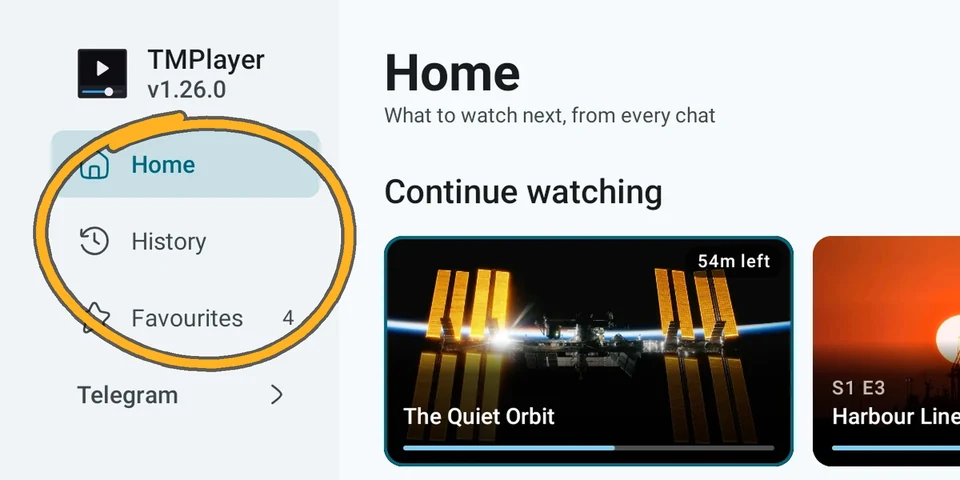
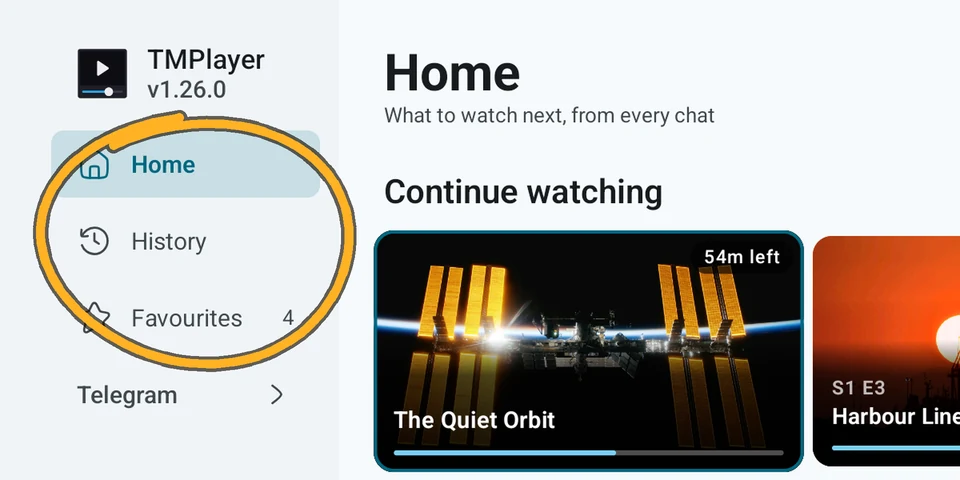
site: the TV home screen row retaken with a picture on every card, and the rail shot taken from the emulator

diff --git a/app/src/promo/java/com/tmplayer/PromoCaptureActivity.kt b/app/src/promo/java/com/tmplayer/PromoCaptureActivity.kt
@@ -876,14 +876,13 @@ private fun ComponentActivity.promoChannels() {
     val context = applicationContext
     val library = PromoMeta.library
     // The demo videos' pictures are this build's drawables, not Telegram thumbnails: each card's
-    // picture is written out from the video's own frame, found by its name. The course's lessons
-    // carry none in the library (the in-app tiles show the generated cover), but a real upload's
-    // thumbnail is what the launcher would get, so they wear the course's demo frame here.
+    // picture is written out from the video's own frame, found by its name. The videos the library
+    // keeps without a picture (the in-app tiles show the generated cover there) wear a demo frame
+    // that suits them, as a real upload's thumbnail would be what the launcher gets.
     val frames = java.io.File(context.cacheDir, "promo-channel-art").apply { mkdirs() }
     com.tmplayer.data.TvChannelsPublisher.fixtureArt = { art ->
         val item = library.all.firstOrNull { it.nameForParsing == art.name && it.caption == art.caption }
-        val bytes = item?.miniThumbnail
-            ?: item?.takeIf { it.chatId == PromoCatalog.STUDY }?.let { PromoMeta.pictures.bytes("demo_tutorial") }
+        val bytes = item?.miniThumbnail ?: item?.let { PromoMeta.pictures.bytes(promoChannelFrame(it)) }
         bytes?.let {
             java.io.File(frames, "${art.key.hashCode().toUInt()}.jpg").apply { if (!isFile) writeBytes(it) }
         }
@@ -919,6 +918,15 @@ private fun ComponentActivity.promoChannels() {
             }
         }
     }.start()
+}
+
+/** A demo frame for a video the library keeps without a picture, for its home screen card. */
+private fun promoChannelFrame(item: MediaItem): String = when {
+    item.chatId == PromoCatalog.STUDY -> "demo_tutorial"
+    "Kestrel" in item.fileName -> "demo_coast"
+    "Tiffin" in item.fileName -> "demo_kitchen"
+    "ladakh" in item.fileName -> "demo_forest"
+    else -> "demo_workshop"
 }
 
 /** `tv` or `tablet` answers the Fire OS question as that device would; anything else leaves it. */

diff --git a/site/ml/features/index.html b/site/ml/features/index.html
@@ -497,11 +497,11 @@
                launcher has no light theme, so one picture serves both. -->
           <div class="frame">
             <div class="screen">
-              <img src="/screenshots/tv-home-screen.webp" alt="നക്ഷത്രമിട്ട ചാറ്റുകളിൽ പുതുതായി ചേർത്ത ഡെമോ സിനിമകളും സീരീസുകളുമുള്ള TMPlayer നിരയോടുകൂടിയ Android TV ഹോം സ്ക്രീൻ, The Quiet Orbit തിരഞ്ഞെടുത്ത നിലയിൽ." width="1440" height="420" loading="lazy" decoding="async" data-i18n-alt="features.tv_home_screen_alt">
+              <img src="/screenshots/tv-home-screen.webp" alt="നക്ഷത്രമിട്ട ചാറ്റുകളിൽ പുതുതായി ചേർത്ത ഡെമോ സിനിമകളും സീരീസുകളുമുള്ള TMPlayer നിരയോടുകൂടിയ Android TV ഹോം സ്ക്രീൻ, Saltwater Lanterns തിരഞ്ഞെടുത്ത നിലയിൽ." width="1440" height="420" loading="lazy" decoding="async" data-i18n-alt="features.tv_home_screen_alt">
               <div class="tour-marks" aria-hidden="true">
                 <span style="--x: 27%; --y: 11.6%"></span>
-                <span style="--x: 22.5%; --y: 73.8%"></span>
-                <span style="--x: 91.6%; --y: 19.1%"></span>
+                <span style="--x: 24%; --y: 73.8%"></span>
+                <span style="--x: 82.4%; --y: 19.1%"></span>
               </div>
             </div>
           </div>

diff --git a/site/hi/features/index.html b/site/hi/features/index.html
@@ -497,11 +497,11 @@
                launcher has no light theme, so one picture serves both. -->
           <div class="frame">
             <div class="screen">
-              <img src="/screenshots/tv-home-screen.webp" alt="Android TV की होम स्क्रीन, जिसमें स्टार की हुई चैट में हाल में जुड़ी डेमो फ़िल्मों और शो की TMPlayer पंक्ति है, The Quiet Orbit चुना हुआ है।" width="1440" height="420" loading="lazy" decoding="async" data-i18n-alt="features.tv_home_screen_alt">
+              <img src="/screenshots/tv-home-screen.webp" alt="Android TV की होम स्क्रीन, जिसमें स्टार की हुई चैट में हाल में जुड़ी डेमो फ़िल्मों और शो की TMPlayer पंक्ति है, Saltwater Lanterns चुना हुआ है।" width="1440" height="420" loading="lazy" decoding="async" data-i18n-alt="features.tv_home_screen_alt">
               <div class="tour-marks" aria-hidden="true">
                 <span style="--x: 27%; --y: 11.6%"></span>
-                <span style="--x: 22.5%; --y: 73.8%"></span>
-                <span style="--x: 91.6%; --y: 19.1%"></span>
+                <span style="--x: 24%; --y: 73.8%"></span>
+                <span style="--x: 82.4%; --y: 19.1%"></span>
               </div>
             </div>
           </div>

diff --git a/site/bn/features/index.html b/site/bn/features/index.html
@@ -497,11 +497,11 @@
                launcher has no light theme, so one picture serves both. -->
           <div class="frame">
             <div class="screen">
-              <img src="/screenshots/tv-home-screen.webp" alt="Android TV-এর হোম স্ক্রিন, তারকা দেওয়া চ্যাটে সম্প্রতি যোগ হওয়া ডেমো সিনেমা ও সিরিজের TMPlayer সারি সহ, The Quiet Orbit বাছাই করা।" width="1440" height="420" loading="lazy" decoding="async" data-i18n-alt="features.tv_home_screen_alt">
+              <img src="/screenshots/tv-home-screen.webp" alt="Android TV-এর হোম স্ক্রিন, তারকা দেওয়া চ্যাটে সম্প্রতি যোগ হওয়া ডেমো সিনেমা ও সিরিজের TMPlayer সারি সহ, Saltwater Lanterns বাছাই করা।" width="1440" height="420" loading="lazy" decoding="async" data-i18n-alt="features.tv_home_screen_alt">
               <div class="tour-marks" aria-hidden="true">
                 <span style="--x: 27%; --y: 11.6%"></span>
-                <span style="--x: 22.5%; --y: 73.8%"></span>
-                <span style="--x: 91.6%; --y: 19.1%"></span>
+                <span style="--x: 24%; --y: 73.8%"></span>
+                <span style="--x: 82.4%; --y: 19.1%"></span>
               </div>
             </div>
           </div>

diff --git a/site/ar/features/index.html b/site/ar/features/index.html
@@ -497,11 +497,11 @@
                launcher has no light theme, so one picture serves both. -->
           <div class="frame">
             <div class="screen">
-              <img src="/screenshots/tv-home-screen.webp" alt="الشاشة الرئيسية في Android TV مع صف من TMPlayer لأفلام ومسلسلات تجريبية أُضيفت مؤخرًا إلى المحادثات المميزة بنجمة، والتحديد على The Quiet Orbit." width="1440" height="420" loading="lazy" decoding="async" data-i18n-alt="features.tv_home_screen_alt">
+              <img src="/screenshots/tv-home-screen.webp" alt="الشاشة الرئيسية في Android TV مع صف من TMPlayer لأفلام ومسلسلات تجريبية أُضيفت مؤخرًا إلى المحادثات المميزة بنجمة، والتحديد على Saltwater Lanterns." width="1440" height="420" loading="lazy" decoding="async" data-i18n-alt="features.tv_home_screen_alt">
               <div class="tour-marks" aria-hidden="true">
                 <span style="--x: 27%; --y: 11.6%"></span>
-                <span style="--x: 22.5%; --y: 73.8%"></span>
-                <span style="--x: 91.6%; --y: 19.1%"></span>
+                <span style="--x: 24%; --y: 73.8%"></span>
+                <span style="--x: 82.4%; --y: 19.1%"></span>
               </div>
             </div>
           </div>

diff --git a/site/fa/features/index.html b/site/fa/features/index.html
@@ -497,11 +497,11 @@
                launcher has no light theme, so one picture serves both. -->
           <div class="frame">
             <div class="screen">
-              <img src="/screenshots/tv-home-screen.webp" alt="صفحهٔ اصلی Android TV با ردیفی از TMPlayer شامل فیلمها و سریالهای نمایشی تازه اضافهشده به گفتگوهای ستارهدار، با انتخاب The Quiet Orbit." width="1440" height="420" loading="lazy" decoding="async" data-i18n-alt="features.tv_home_screen_alt">
+              <img src="/screenshots/tv-home-screen.webp" alt="صفحهٔ اصلی Android TV با ردیفی از TMPlayer شامل فیلمها و سریالهای نمایشی تازه اضافهشده به گفتگوهای ستارهدار، با انتخاب Saltwater Lanterns." width="1440" height="420" loading="lazy" decoding="async" data-i18n-alt="features.tv_home_screen_alt">
               <div class="tour-marks" aria-hidden="true">
                 <span style="--x: 27%; --y: 11.6%"></span>
-                <span style="--x: 22.5%; --y: 73.8%"></span>
-                <span style="--x: 91.6%; --y: 19.1%"></span>
+                <span style="--x: 24%; --y: 73.8%"></span>
+                <span style="--x: 82.4%; --y: 19.1%"></span>
               </div>
             </div>
           </div>

diff --git a/site/ru/features/index.html b/site/ru/features/index.html
@@ -497,11 +497,11 @@
                launcher has no light theme, so one picture serves both. -->
           <div class="frame">
             <div class="screen">
-              <img src="/screenshots/tv-home-screen.webp" alt="Главный экран Android TV с рядом TMPlayer из демо-фильмов и сериалов, недавно добавленных в избранные чаты; выбран The Quiet Orbit." width="1440" height="420" loading="lazy" decoding="async" data-i18n-alt="features.tv_home_screen_alt">
+              <img src="/screenshots/tv-home-screen.webp" alt="Главный экран Android TV с рядом TMPlayer из демо-фильмов и сериалов, недавно добавленных в избранные чаты; выбран Saltwater Lanterns." width="1440" height="420" loading="lazy" decoding="async" data-i18n-alt="features.tv_home_screen_alt">
               <div class="tour-marks" aria-hidden="true">
                 <span style="--x: 27%; --y: 11.6%"></span>
-                <span style="--x: 22.5%; --y: 73.8%"></span>
-                <span style="--x: 91.6%; --y: 19.1%"></span>
+                <span style="--x: 24%; --y: 73.8%"></span>
+                <span style="--x: 82.4%; --y: 19.1%"></span>
               </div>
             </div>
           </div>

diff --git a/site/uk/features/index.html b/site/uk/features/index.html
@@ -497,11 +497,11 @@
                launcher has no light theme, so one picture serves both. -->
           <div class="frame">
             <div class="screen">
-              <img src="/screenshots/tv-home-screen.webp" alt="Головний екран Android TV з рядом TMPlayer із демо-фільмів і серіалів, нещодавно доданих в обрані чати; вибрано The Quiet Orbit." width="1440" height="420" loading="lazy" decoding="async" data-i18n-alt="features.tv_home_screen_alt">
+              <img src="/screenshots/tv-home-screen.webp" alt="Головний екран Android TV з рядом TMPlayer із демо-фільмів і серіалів, нещодавно доданих в обрані чати; вибрано Saltwater Lanterns." width="1440" height="420" loading="lazy" decoding="async" data-i18n-alt="features.tv_home_screen_alt">
               <div class="tour-marks" aria-hidden="true">
                 <span style="--x: 27%; --y: 11.6%"></span>
-                <span style="--x: 22.5%; --y: 73.8%"></span>
-                <span style="--x: 91.6%; --y: 19.1%"></span>
+                <span style="--x: 24%; --y: 73.8%"></span>
+                <span style="--x: 82.4%; --y: 19.1%"></span>
               </div>
             </div>
           </div>

diff --git a/site/ja/features/index.html b/site/ja/features/index.html
@@ -497,11 +497,11 @@
                launcher has no light theme, so one picture serves both. -->
           <div class="frame">
             <div class="screen">
-              <img src="/screenshots/tv-home-screen.webp" alt="Android TV のホーム画面。スター付きチャットに最近追加されたデモの映画とシリーズが TMPlayer の列に並び、The Quiet Orbit が選択されています。" width="1440" height="420" loading="lazy" decoding="async" data-i18n-alt="features.tv_home_screen_alt">
+              <img src="/screenshots/tv-home-screen.webp" alt="Android TV のホーム画面。スター付きチャットに最近追加されたデモの映画とシリーズが TMPlayer の列に並び、Saltwater Lanterns が選択されています。" width="1440" height="420" loading="lazy" decoding="async" data-i18n-alt="features.tv_home_screen_alt">
               <div class="tour-marks" aria-hidden="true">
                 <span style="--x: 27%; --y: 11.6%"></span>
-                <span style="--x: 22.5%; --y: 73.8%"></span>
-                <span style="--x: 91.6%; --y: 19.1%"></span>
+                <span style="--x: 24%; --y: 73.8%"></span>
+                <span style="--x: 82.4%; --y: 19.1%"></span>
               </div>
             </div>
           </div>

diff --git a/site/vi/features/index.html b/site/vi/features/index.html
@@ -497,11 +497,11 @@
                launcher has no light theme, so one picture serves both. -->
           <div class="frame">
             <div class="screen">
-              <img src="/screenshots/tv-home-screen.webp" alt="Màn hình chính Android TV với một hàng TMPlayer gồm phim lẻ và phim bộ mẫu mới thêm vào các cuộc trò chuyện gắn sao, đang chọn The Quiet Orbit." width="1440" height="420" loading="lazy" decoding="async" data-i18n-alt="features.tv_home_screen_alt">
+              <img src="/screenshots/tv-home-screen.webp" alt="Màn hình chính Android TV với một hàng TMPlayer gồm phim lẻ và phim bộ mẫu mới thêm vào các cuộc trò chuyện gắn sao, đang chọn Saltwater Lanterns." width="1440" height="420" loading="lazy" decoding="async" data-i18n-alt="features.tv_home_screen_alt">
               <div class="tour-marks" aria-hidden="true">
                 <span style="--x: 27%; --y: 11.6%"></span>
-                <span style="--x: 22.5%; --y: 73.8%"></span>
-                <span style="--x: 91.6%; --y: 19.1%"></span>
+                <span style="--x: 24%; --y: 73.8%"></span>
+                <span style="--x: 82.4%; --y: 19.1%"></span>
               </div>
             </div>
           </div>

diff --git a/site/fr/features/index.html b/site/fr/features/index.html
@@ -497,11 +497,11 @@
                launcher has no light theme, so one picture serves both. -->
           <div class="frame">
             <div class="screen">
-              <img src="/screenshots/tv-home-screen.webp" alt="L&#x27;écran d&#x27;accueil d&#x27;Android TV avec une rangée TMPlayer de films et séries de démo ajoutés aux discussions favorites, The Quiet Orbit sélectionné." width="1440" height="420" loading="lazy" decoding="async" data-i18n-alt="features.tv_home_screen_alt">
+              <img src="/screenshots/tv-home-screen.webp" alt="L&#x27;écran d&#x27;accueil d&#x27;Android TV avec une rangée TMPlayer de films et séries de démo ajoutés aux discussions favorites, Saltwater Lanterns sélectionné." width="1440" height="420" loading="lazy" decoding="async" data-i18n-alt="features.tv_home_screen_alt">
               <div class="tour-marks" aria-hidden="true">
                 <span style="--x: 27%; --y: 11.6%"></span>
-                <span style="--x: 22.5%; --y: 73.8%"></span>
-                <span style="--x: 91.6%; --y: 19.1%"></span>
+                <span style="--x: 24%; --y: 73.8%"></span>
+                <span style="--x: 82.4%; --y: 19.1%"></span>
               </div>
             </div>
           </div>

diff --git a/site/es/features/index.html b/site/es/features/index.html
@@ -497,11 +497,11 @@
                launcher has no light theme, so one picture serves both. -->
           <div class="frame">
             <div class="screen">
-              <img src="/screenshots/tv-home-screen.webp" alt="La pantalla principal de Android TV con una fila de TMPlayer de películas y series de demostración agregadas a chats destacados, con The Quiet Orbit seleccionada." width="1440" height="420" loading="lazy" decoding="async" data-i18n-alt="features.tv_home_screen_alt">
+              <img src="/screenshots/tv-home-screen.webp" alt="La pantalla principal de Android TV con una fila de TMPlayer de películas y series de demostración agregadas a chats destacados, con Saltwater Lanterns seleccionada." width="1440" height="420" loading="lazy" decoding="async" data-i18n-alt="features.tv_home_screen_alt">
               <div class="tour-marks" aria-hidden="true">
                 <span style="--x: 27%; --y: 11.6%"></span>
-                <span style="--x: 22.5%; --y: 73.8%"></span>
-                <span style="--x: 91.6%; --y: 19.1%"></span>
+                <span style="--x: 24%; --y: 73.8%"></span>
+                <span style="--x: 82.4%; --y: 19.1%"></span>
               </div>
             </div>
           </div>
